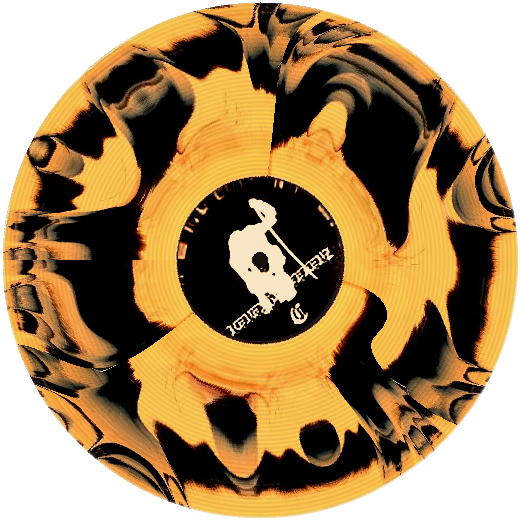
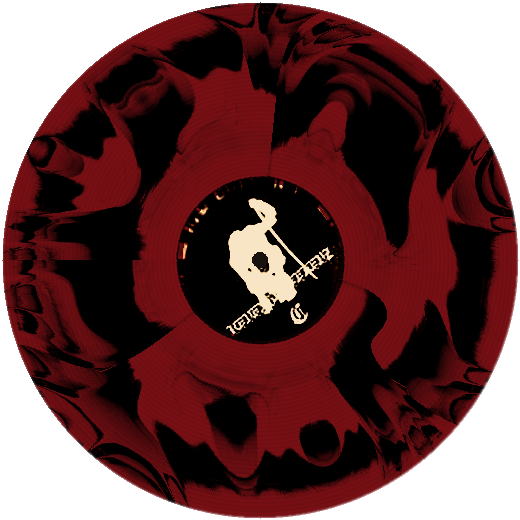
Page rouge : le fond fourni, texte allume, platine plus sombre
- le collage dessine cede la place a l image fournie, telle quelle, a fond
  perdu et cadree au centre
- les paroles, les noms de pistes et la note s allument comme les fleurs du
  fond : halo blanc, halo rouge, ombre sombre dessous pour tenir partout
- le disque passe au rouge sombre, la platine s assombrit et perd ses rayures
  de metal brosse, qui faisaient un moire de traits verticaux sur le rouge
- les pastilles d album ont maintenant la meme largeur : sans cela le nom le
  plus long decalait les deux ronds d une poignee de pixels vers la gauche
- les couches de grain sont attenuees sur cet album, elles ternissaient l image

diff --git a/index.html b/index.html
@@ -23,146 +23,8 @@
   <span class="blob b3"></span>
   <span class="glow"></span>
   <!-- collage de la page rouge : cache sur les autres albums -->
-  <svg class="deco" viewBox="0 0 1440 900" preserveAspectRatio="xMidYMid slice" aria-hidden="true">
-  <defs>
-  <pattern id="dg" width="17" height="17" patternUnits="userSpaceOnUse"><circle cx="8.5" cy="8.5" r="4.1" fill="#fff"/></pattern>
-  <radialGradient id="df"><stop offset="46%" stop-color="#fff" stop-opacity="1"/><stop offset="100%" stop-color="#fff" stop-opacity="0"/></radialGradient>
-  <mask id="dm"><ellipse cx="1010" cy="400" rx="470" ry="360" fill="url(#df)"/><ellipse cx="250" cy="760" rx="300" ry="230" fill="url(#df)"/></mask>
-  <radialGradient id="gf"><stop offset="0%" stop-color="#fff" stop-opacity=".9"/><stop offset="100%" stop-color="#fff" stop-opacity="0"/></radialGradient>
-  </defs>
-  <g fill="#5c0009" opacity=".32">
-  <path d="M1573.4,120.0C1566.0,147.8 1429.2,134.1 1404.2,179.9C1379.2,225.8 1466.4,322.9 1448.2,349.2C1430.0,375.5 1356.8,326.0 1313.3,311.5C1269.7,297.0 1271.1,283.2 1230.6,276.7C1190.0,270.3 1149.4,297.9 1110.4,279.1C1071.3,260.3 1049.0,226.8 1035.4,182.8C1021.8,138.7 1032.4,107.8 1042.4,59.0C1052.4,10.2 1054.7,-23.8 1085.3,-61.3C1116.0,-98.9 1151.1,-135.1 1195.7,-128.7C1240.2,-122.3 1254.8,-29.1 1308.1,-29.3C1361.4,-29.4 1435.7,-143.5 1462.2,-129.5C1488.8,-115.5 1418.8,-9.2 1441.1,40.7C1463.3,90.6 1580.7,92.2 1573.4,120.0Z"/>
-  <path d="M1638.6,620.0C1657.6,666.1 1646.9,708.4 1626.9,760.1C1606.9,811.8 1588.3,878.0 1538.4,878.5C1488.5,878.9 1434.6,756.8 1377.3,762.2C1319.9,767.7 1296.8,897.2 1251.7,905.7C1206.5,914.2 1173.7,851.1 1151.4,804.8C1129.1,758.5 1131.2,719.3 1139.9,674.2C1148.7,629.2 1201.8,635.1 1195.1,579.3C1188.3,523.6 1085.3,418.7 1106.3,395.3C1127.3,371.8 1244.5,457.5 1300.1,462.2C1355.8,466.9 1340.7,433.2 1384.4,418.7C1428.2,404.2 1489.5,367.4 1519.0,389.6C1548.5,411.8 1508.1,483.6 1532.1,529.7C1556.0,575.8 1619.6,573.9 1638.6,620.0Z"/>
-  <path d="M272.6,90.0C272.9,109.7 233.0,122.3 214.4,139.6C195.8,156.8 192.6,137.6 179.6,176.3C166.6,215.0 172.3,321.8 149.5,333.2C126.7,344.6 111.9,246.2 65.6,233.3C19.4,220.5 -39.5,284.4 -81.9,268.9C-124.3,253.3 -152.7,199.8 -146.4,155.7C-140.1,111.5 -82.3,80.1 -50.4,48.0C-18.5,15.9 -9.6,17.2 13.0,-4.8C35.5,-26.9 34.7,-30.9 62.2,-62.3C89.8,-93.8 119.6,-164.3 150.6,-162.0C181.6,-159.7 204.7,-91.4 217.2,-50.8C229.7,-10.2 202.1,13.0 213.2,41.1C224.2,69.3 272.3,70.3 272.6,90.0Z"/>
-  <path d="M990.4,880.0C995.7,916.9 970.2,943.0 949.1,979.2C928.0,1015.4 916.9,1032.3 885.0,1061.0C853.0,1089.8 826.3,1127.9 789.5,1123.0C752.7,1118.0 742.3,1053.1 700.8,1036.0C659.4,1018.9 621.4,1056.1 582.2,1037.5C543.0,1018.9 516.4,986.0 504.9,942.9C493.4,899.8 500.4,858.4 524.5,822.0C548.6,785.5 591.2,783.3 625.3,760.7C659.5,738.1 661.2,742.9 695.1,709.0C729.1,675.1 764.6,582.3 795.1,591.3C825.5,600.2 821.8,712.9 847.3,753.6C872.8,794.3 893.9,769.4 922.5,794.7C951.2,820.0 985.1,843.1 990.4,880.0Z"/>
-  </g>
-  <g fill="#7d0512" opacity=".3">
-  <path d="M1341.1,780.0C1328.8,816.9 1289.6,827.5 1262.8,852.5C1236.0,877.5 1233.2,894.0 1207.0,904.9C1180.8,915.8 1155.8,917.4 1131.7,907.0C1107.7,896.7 1128.8,865.1 1086.7,853.1C1044.6,841.1 952.6,874.7 921.2,847.2C889.9,819.6 905.2,753.2 929.8,715.3C954.4,677.5 1006.7,691.6 1044.0,657.7C1081.3,623.8 1074.0,567.5 1116.3,545.7C1158.6,524.0 1214.0,524.4 1255.6,548.8C1297.2,573.3 1307.2,621.7 1324.3,668.0C1341.4,714.2 1353.4,743.1 1341.1,780.0Z"/>
-  <path d="M156.7,470.0C173.4,499.6 228.7,554.3 216.8,570.8C205.0,587.2 133.5,540.8 97.6,552.3C61.6,563.7 58.8,628.5 37.2,628.2C15.7,627.9 8.6,575.6 -10.0,550.8C-28.7,526.0 -41.7,528.6 -56.1,504.1C-70.6,479.6 -89.7,453.2 -82.2,428.3C-74.6,403.3 -42.2,403.8 -18.5,379.4C5.2,355.0 14.0,303.0 36.5,306.3C58.9,309.5 74.5,372.4 93.9,395.7C113.3,419.0 120.8,408.0 133.4,422.8C145.9,437.7 140.0,440.4 156.7,470.0Z"/>
-  </g>
-  <rect x="0" y="0" width="1440" height="900" fill="url(#dg)" opacity=".2" mask="url(#dm)"/>
-  <g fill="#0b0507">
-  <path d="M1577.1,60.0C1598.5,86.0 1603.8,113.0 1598.6,148.3C1593.4,183.5 1586.2,231.8 1551.1,236.1C1515.9,240.5 1465.9,158.8 1422.9,170.1C1379.9,181.4 1374.6,277.5 1336.0,292.8C1297.4,308.0 1234.3,285.8 1230.0,246.2C1225.8,206.6 1332.5,132.0 1314.8,94.8C1297.1,57.5 1155.0,79.8 1141.5,60.0C1127.9,40.2 1210.5,11.7 1247.2,-4.1C1283.9,-19.9 1304.5,4.0 1325.0,-19.0C1345.5,-41.9 1332.0,-120.4 1349.6,-118.8C1367.3,-117.3 1370.2,-8.8 1413.0,-11.2C1455.9,-13.5 1548.1,-136.4 1563.8,-130.5C1579.5,-124.6 1488.8,-19.9 1491.4,18.2C1494.1,56.3 1555.6,34.0 1577.1,60.0Z" opacity=".95"/>
-  <path d="M1605.8,430.0C1599.7,479.1 1660.7,513.8 1647.2,544.9C1633.6,576.0 1571.6,553.6 1538.2,585.6C1504.7,617.6 1513.1,691.1 1479.7,704.8C1446.4,718.6 1418.8,662.3 1371.3,654.1C1323.8,645.9 1265.1,692.3 1242.4,663.9C1219.7,635.5 1275.1,558.8 1257.7,512.1C1240.3,465.3 1162.3,466.4 1155.2,430.0C1148.0,393.6 1189.8,357.3 1221.9,329.9C1254.1,302.4 1289.4,333.4 1315.9,292.9C1342.3,252.5 1327.5,127.4 1354.3,127.5C1381.0,127.7 1420.6,254.1 1449.6,293.8C1478.6,333.4 1453.5,324.6 1499.2,325.7C1544.8,326.9 1656.6,278.7 1677.9,299.6C1699.2,320.5 1612.0,380.9 1605.8,430.0Z" opacity=".95"/>
-  <path d="M1468.1,880.0C1477.2,914.3 1551.0,956.2 1540.2,976.2C1529.3,996.1 1448.2,967.0 1413.8,979.8C1379.5,992.7 1389.8,1041.3 1368.5,1040.2C1347.2,1039.1 1349.3,965.5 1307.4,974.1C1265.5,982.8 1199.4,1081.9 1159.1,1083.5C1118.8,1085.2 1089.5,1023.2 1105.9,982.5C1122.4,941.8 1218.6,910.6 1241.3,880.0C1264.0,849.4 1230.6,863.8 1219.4,829.4C1208.2,794.9 1172.8,737.3 1185.4,707.8C1198.0,678.2 1245.9,678.3 1282.3,681.5C1318.7,684.7 1326.4,721.8 1367.5,723.8C1408.7,725.8 1462.7,675.4 1488.2,691.6C1513.6,707.8 1498.7,767.0 1494.7,804.7C1490.7,842.3 1459.0,845.7 1468.1,880.0Z" opacity=".95"/>
-  <path d="M53.7,250.0C53.5,289.4 157.6,327.8 155.8,348.4C153.9,369.0 77.4,351.8 44.6,352.9C11.7,353.9 14.8,334.1 -8.5,353.8C-31.7,373.6 -52.6,451.8 -71.8,451.6C-91.1,451.5 -85.1,378.5 -104.6,352.9C-124.1,327.4 -146.3,344.4 -169.4,323.8C-192.5,303.2 -213.7,282.9 -220.1,250.0C-226.4,217.1 -222.6,182.1 -201.0,159.4C-179.5,136.7 -142.2,138.9 -112.2,136.6C-82.3,134.3 -76.1,166.0 -51.2,147.8C-26.3,129.5 -9.5,49.4 12.5,45.4C34.5,41.3 30.0,106.3 58.8,127.5C87.6,148.7 157.5,126.7 156.4,151.2C155.4,175.8 53.8,210.6 53.7,250.0Z" opacity=".95"/>
-  <path d="M213.1,880.0C192.6,907.6 149.0,898.0 137.9,926.8C126.7,955.5 170.6,1000.2 157.3,1023.7C144.1,1047.1 101.4,1055.6 71.6,1043.9C41.8,1032.3 32.7,980.0 8.4,965.3C-16.0,950.6 -34.1,978.8 -50.3,970.6C-66.4,962.4 -68.0,942.5 -72.5,924.4C-77.0,906.3 -54.5,905.7 -72.8,880.0C-91.1,854.3 -159.8,823.8 -164.0,795.9C-168.2,768.0 -125.2,752.1 -93.7,740.4C-62.1,728.7 -35.7,728.1 -6.2,737.3C23.3,746.6 25.5,781.8 53.7,786.6C81.9,791.5 97.6,761.2 134.9,761.6C172.2,762.1 224.5,765.2 240.2,788.9C255.8,812.6 233.6,852.4 213.1,880.0Z" opacity=".95"/>
-  <path d="M700.7,-60.0C717.3,-39.1 785.8,-11.5 789.0,9.2C792.2,29.8 741.3,22.5 716.8,43.2C692.2,63.8 691.3,111.9 666.3,112.3C641.2,112.7 612.3,67.6 591.7,45.2C571.2,22.9 583.3,10.9 563.4,0.4C543.4,-10.2 521.2,4.5 492.0,-7.6C462.8,-19.7 405.0,-44.2 417.5,-60.0C430.0,-75.8 524.8,-75.3 554.5,-86.8C584.2,-98.4 558.1,-103.2 565.8,-117.8C573.6,-132.4 574.6,-142.4 593.2,-159.8C611.8,-177.2 629.4,-199.0 658.9,-204.8C688.4,-210.6 731.3,-210.7 740.8,-188.8C750.3,-166.9 714.3,-121.1 706.3,-95.3C698.3,-69.6 684.2,-80.9 700.7,-60.0Z" opacity=".95"/>
-  </g>
-  <g fill="#0b0507" opacity=".7">
-  <path d="M96.4,838.0C96.8,843.1 96.7,848.0 93.3,851.7C90.0,855.4 84.0,857.6 79.6,856.4C75.3,855.3 73.5,849.7 71.6,846.0C69.8,842.3 69.6,840.5 70.3,838.0C71.0,835.5 73.2,836.0 75.0,833.4C76.9,830.8 76.4,826.4 79.6,825.0C82.9,823.6 88.0,823.7 91.3,826.3C94.7,828.9 96.0,832.9 96.4,838.0Z"/>
-  <path d="M1366.8,442.0C1368.6,448.9 1379.0,460.8 1376.6,463.9C1374.2,467.0 1364.4,456.5 1354.7,457.4C1345.1,458.3 1335.9,471.6 1328.3,468.5C1320.7,465.4 1316.3,452.2 1316.7,442.0C1317.1,431.8 1322.6,421.5 1330.2,417.5C1337.8,413.4 1347.3,419.3 1354.7,421.7C1362.2,424.0 1365.0,425.3 1367.4,429.4C1369.8,433.4 1365.0,435.1 1366.8,442.0Z"/>
-  <path d="M1170.4,72.7C1170.0,75.1 1168.2,75.8 1166.4,77.7C1164.6,79.6 1163.4,82.2 1161.3,82.2C1159.3,82.2 1158.1,79.6 1156.3,77.7C1154.5,75.8 1152.5,75.0 1152.2,72.7C1151.9,70.3 1153.0,67.0 1154.8,66.2C1156.7,65.3 1158.6,68.7 1161.3,68.6C1164.1,68.5 1166.6,64.7 1168.5,65.6C1170.3,66.4 1170.8,70.2 1170.4,72.7Z"/>
-  <path d="M200.0,826.2C203.6,832.8 216.3,847.2 214.0,851.5C211.7,855.8 196.7,849.8 188.7,847.7C180.7,845.6 177.4,845.3 173.9,841.0C170.4,836.7 173.4,834.3 171.3,826.2C169.1,818.2 159.9,808.2 163.4,800.9C166.9,793.6 182.2,786.1 188.7,789.7C195.3,793.3 193.8,811.6 196.0,818.9C198.3,826.3 196.5,819.7 200.0,826.2Z"/>
-  <path d="M25.5,396.5C28.7,402.3 38.7,412.3 36.4,419.0C34.1,425.6 22.8,429.8 13.9,429.7C5.0,429.5 -4.9,425.1 -8.0,418.4C-11.2,411.8 -1.9,405.4 -2.0,396.5C-2.2,387.6 -12.1,380.3 -8.9,373.7C-5.7,367.2 8.0,360.6 13.9,363.8C19.8,367.0 18.2,383.3 20.5,389.9C22.8,396.4 22.3,390.7 25.5,396.5Z"/>
-  <path d="M176.4,546.7C176.9,548.4 172.1,551.2 169.8,552.0C167.4,552.7 166.2,550.9 164.5,550.5C162.8,550.1 162.1,550.9 161.1,550.1C160.1,549.4 159.4,548.0 159.5,546.7C159.7,545.5 160.8,545.8 161.8,544.1C162.8,542.4 163.4,538.3 164.5,538.3C165.6,538.2 165.0,542.1 167.4,543.8C169.8,545.5 176.0,545.1 176.4,546.7Z"/>
-  <path d="M28.7,489.7C31.5,496.5 35.5,507.7 31.3,513.6C27.0,519.4 16.2,519.7 7.4,518.9C-1.3,518.1 -5.3,515.3 -12.3,509.5C-19.4,503.7 -29.7,495.7 -27.7,489.7C-25.7,483.8 -9.5,486.4 -2.4,479.8C4.6,473.3 3.5,456.9 7.4,456.9C11.4,456.8 13.2,473.2 17.4,479.7C21.7,486.3 25.9,483.0 28.7,489.7Z"/>
-  <path d="M1241.3,586.6C1239.8,595.1 1233.5,599.2 1227.2,604.1C1220.9,609.0 1215.3,612.4 1209.7,611.0C1204.1,609.6 1202.8,602.0 1199.2,597.1C1195.5,592.2 1192.4,591.8 1191.5,586.6C1190.5,581.4 1190.6,575.3 1194.3,571.2C1197.9,567.2 1201.6,568.3 1209.7,566.4C1217.8,564.4 1228.5,557.4 1234.8,561.5C1241.1,565.5 1242.8,578.1 1241.3,586.6Z"/>
-  <path d="M308.8,419.4C306.4,425.5 306.2,426.6 303.3,428.5C300.4,430.4 298.1,428.5 294.2,428.7C290.3,429.0 285.6,431.6 283.9,429.8C282.1,427.9 286.9,424.9 285.6,419.4C284.2,413.9 275.3,405.6 277.1,402.3C278.8,398.9 286.5,403.4 294.2,402.6C301.9,401.7 312.6,394.8 315.5,398.2C318.4,401.6 311.3,413.4 308.8,419.4Z"/>
-  <path d="M1338.6,195.0C1340.3,203.5 1354.4,213.4 1352.1,220.1C1349.8,226.9 1334.3,231.6 1327.0,228.8C1319.8,226.0 1319.8,212.9 1316.0,206.1C1312.1,199.4 1309.8,201.3 1307.9,195.0C1306.1,188.8 1302.9,178.6 1306.7,174.7C1310.5,170.9 1319.6,175.1 1327.0,175.8C1334.5,176.5 1341.7,174.2 1344.0,178.1C1346.3,181.9 1337.0,186.6 1338.6,195.0Z"/>
-  <path d="M258.0,495.5C257.8,501.7 266.7,508.5 265.1,510.5C263.5,512.4 255.2,506.2 250.1,505.2C245.1,504.3 243.0,507.6 239.9,505.7C236.9,503.8 234.3,499.2 234.7,495.5C235.1,491.8 238.8,489.8 241.9,487.3C245.0,484.8 245.3,484.4 250.1,482.9C254.9,481.4 264.3,477.3 265.8,479.8C267.4,482.3 258.1,489.4 258.0,495.5Z"/>
-  <path d="M288.3,875.5C288.9,881.8 288.9,888.1 284.7,892.7C280.6,897.3 273.8,899.1 267.5,898.4C261.3,897.8 258.5,894.1 253.5,889.5C248.6,884.9 241.9,880.4 242.6,875.5C243.3,870.6 252.1,869.4 257.1,865.0C262.1,860.6 262.6,854.1 267.5,853.3C272.5,852.5 277.7,856.8 281.8,861.2C286.0,865.6 287.8,869.2 288.3,875.5Z"/>
-  <path d="M255.8,670.2C254.0,674.3 253.5,673.6 251.4,676.1C249.4,678.7 250.2,680.5 245.5,682.9C240.7,685.2 229.5,690.5 227.7,688.0C225.9,685.4 236.9,677.7 236.4,670.2C236.0,662.6 223.5,655.3 225.3,650.0C227.2,644.7 238.5,642.5 245.5,643.6C252.5,644.7 258.2,650.0 260.3,655.3C262.3,660.7 257.5,666.0 255.8,670.2Z"/>
-  <path d="M1369.0,300.1C1369.2,307.0 1366.1,312.0 1360.9,317.7C1355.7,323.4 1348.3,330.6 1343.3,328.6C1338.2,326.6 1339.0,313.3 1335.7,307.6C1332.4,301.9 1329.1,305.3 1326.9,300.1C1324.7,294.8 1321.4,286.9 1324.6,281.4C1327.9,276.0 1336.2,272.7 1343.3,273.0C1350.4,273.3 1355.1,277.7 1360.3,283.1C1365.4,288.5 1368.9,293.2 1369.0,300.1Z"/>
-  <path d="M186.1,378.1C187.4,382.0 191.5,388.9 189.6,391.1C187.7,393.3 181.2,389.8 176.6,389.3C171.9,388.7 167.1,390.8 166.2,388.5C165.2,386.3 172.1,382.6 171.8,378.1C171.5,373.6 163.6,368.2 164.6,366.2C165.6,364.1 172.9,366.6 176.6,367.8C180.2,368.9 181.0,369.7 182.9,371.8C184.8,373.9 184.8,374.3 186.1,378.1Z"/>
-  <path d="M77.9,36.2C79.1,38.6 84.2,44.4 83.5,45.3C82.7,46.2 77.8,40.8 74.4,40.6C70.9,40.5 68.4,45.4 66.1,44.5C63.8,43.6 62.4,39.2 62.8,36.2C63.1,33.2 65.5,31.3 67.9,29.7C70.2,28.1 72.5,27.5 74.4,28.3C76.3,29.0 76.6,31.7 77.3,33.3C78.0,34.8 76.7,33.8 77.9,36.2Z"/>
-  <path d="M1451.1,87.0C1449.4,91.4 1436.0,90.8 1430.6,93.7C1425.1,96.6 1428.5,99.7 1423.9,101.7C1419.3,103.7 1409.9,106.4 1407.5,103.5C1405.0,100.5 1412.4,94.3 1411.7,87.0C1411.0,79.7 1401.5,72.5 1403.9,67.1C1406.4,61.6 1416.8,58.9 1423.9,59.8C1431.0,60.7 1433.8,66.2 1439.3,71.6C1444.7,77.1 1452.8,82.6 1451.1,87.0Z"/>
-  <path d="M1188.0,673.7C1190.0,680.0 1188.0,688.1 1182.8,694.3C1177.6,700.5 1169.9,705.1 1162.1,704.6C1154.4,704.1 1146.7,698.0 1144.0,691.8C1141.2,685.6 1147.8,680.3 1148.4,673.7C1149.1,667.1 1144.5,665.8 1147.3,658.8C1150.0,651.8 1156.9,638.0 1162.1,638.8C1167.3,639.5 1168.1,655.6 1173.3,662.5C1178.5,669.5 1186.1,667.3 1188.0,673.7Z"/>
-  <path d="M66.6,381.4C67.4,387.5 76.0,396.9 74.0,398.7C72.0,400.6 63.7,390.8 56.7,390.8C49.7,390.9 41.5,400.9 39.1,399.0C36.7,397.2 42.9,386.8 44.7,381.4C46.4,376.1 45.3,374.5 47.7,372.4C50.1,370.3 52.3,371.7 56.7,370.9C61.1,370.1 67.8,366.3 69.8,368.4C71.7,370.5 65.7,375.4 66.6,381.4Z"/>
-  <path d="M1167.9,208.3C1167.2,210.8 1163.6,211.3 1161.5,212.7C1159.3,214.0 1159.5,214.3 1157.1,214.9C1154.8,215.5 1152.0,216.9 1149.8,215.6C1147.6,214.3 1147.0,211.9 1146.3,208.3C1145.6,204.7 1144.2,201.2 1146.3,197.5C1148.5,193.9 1153.4,189.5 1157.1,190.0C1160.9,190.6 1162.9,196.7 1165.1,200.4C1167.2,204.0 1168.6,205.8 1167.9,208.3Z"/>
-  <path d="M1238.5,664.1C1238.5,665.2 1234.8,666.1 1233.2,666.9C1231.6,667.7 1232.6,667.1 1230.3,668.3C1228.1,669.4 1224.1,673.3 1221.9,672.5C1219.7,671.7 1218.4,666.5 1219.4,664.1C1220.4,661.7 1224.7,662.0 1226.9,660.6C1229.1,659.2 1229.1,657.0 1230.3,657.2C1231.6,657.3 1231.5,659.9 1233.1,661.3C1234.7,662.7 1238.4,663.0 1238.5,664.1Z"/>
-  <path d="M280.3,670.3C281.1,675.1 273.1,682.4 267.8,684.3C262.5,686.2 260.1,679.0 253.8,679.8C247.5,680.5 240.9,689.8 236.1,687.9C231.3,686.0 229.8,677.4 229.8,670.3C229.7,663.1 231.0,656.6 235.8,652.2C240.6,647.8 248.2,646.6 253.8,648.2C259.4,649.8 258.6,655.8 263.9,660.2C269.2,664.6 279.5,665.4 280.3,670.3Z"/>
-  <path d="M300.1,802.0C299.1,807.5 280.4,810.8 272.8,813.0C265.1,815.3 265.6,814.0 261.7,813.4C257.9,812.9 260.2,812.6 253.4,810.3C246.7,808.0 230.8,808.1 228.0,802.0C225.2,795.9 232.8,787.5 239.5,779.8C246.2,772.0 254.0,762.2 261.7,763.4C269.4,764.6 270.3,778.0 278.0,785.7C285.7,793.5 301.1,796.5 300.1,802.0Z"/>
-  <path d="M1193.7,390.0C1192.5,397.0 1200.8,400.2 1199.0,404.4C1197.2,408.5 1190.5,410.7 1184.7,410.8C1178.9,410.9 1175.7,408.9 1170.0,404.7C1164.2,400.6 1154.4,394.2 1156.1,390.0C1157.8,385.9 1173.0,388.1 1178.7,384.1C1184.4,380.0 1179.4,372.9 1184.7,370.0C1189.9,367.1 1203.3,365.6 1205.1,369.6C1206.9,373.6 1194.9,383.1 1193.7,390.0Z"/>
-  <path d="M74.3,548.4C77.1,554.0 79.1,567.0 75.1,569.4C71.0,571.8 61.2,561.8 54.1,560.5C46.9,559.3 43.2,565.5 39.4,563.1C35.6,560.6 36.6,555.8 35.1,548.4C33.6,541.1 28.1,531.9 31.9,526.2C35.7,520.6 48.2,517.3 54.1,520.3C59.9,523.3 57.0,535.8 61.1,541.4C65.1,547.0 71.5,542.8 74.3,548.4Z"/>
-  <path d="M1164.2,248.2C1165.4,250.6 1164.2,254.9 1162.0,257.1C1159.8,259.3 1156.7,258.9 1153.1,259.0C1149.4,259.1 1146.6,259.8 1143.6,257.6C1140.7,255.5 1138.5,252.3 1138.2,248.2C1137.9,244.1 1139.1,238.9 1142.1,237.2C1145.1,235.5 1150.3,238.1 1153.1,239.7C1155.9,241.3 1153.9,243.4 1156.2,245.1C1158.4,246.8 1163.1,245.8 1164.2,248.2Z"/>
-  </g>
-  <polygon points="1008.4,133.6 1034.0,249.2 1150.4,270.8 1048.4,330.9 1063.9,448.3 975.2,369.9 868.3,420.8 915.5,312.3 834.0,226.4 951.9,237.7" fill="#0b0507"/>
-  <polygon points="1248.2,16.4 1280.9,64.1 1337.5,52.5 1302.4,98.4 1330.8,148.7 1276.3,129.4 1237.3,172.0 1238.8,114.3 1186.2,90.3 1241.6,73.9" fill="#0b0507" opacity=".5"/>
-  <polygon points="268.4,728.5 272.9,801.7 342.0,826.2 273.8,853.1 271.9,926.3 225.2,869.8 154.9,890.6 194.3,828.8 152.8,768.3 223.8,786.7" fill="#0b0507" opacity=".34"/>
-  <g fill="none" stroke="#0b0507" stroke-linecap="round">
-  <path d="M-60,470 C260,392 640,506 900,452 C1120,406 1300,470 1500,430" stroke-width="5.5" opacity="0.95"/>
-  <path d="M-60,560 C240,494 620,596 890,544 C1120,500 1310,556 1500,520" stroke-width="4.2" opacity="0.80"/>
-  <path d="M-60,650 C250,596 630,682 900,636 C1130,596 1320,644 1500,614" stroke-width="3.2" opacity="0.62"/>
-  <path d="M-60,382 C280,300 660,414 930,362 C1150,320 1320,382 1500,346" stroke-width="2.4" opacity="0.50"/>
-  </g>
-  <g fill="#0b0507">
-  <g transform="translate(560.0,470.0) rotate(-6.0) scale(1.15,1.15)"><ellipse cx="0" cy="0" rx="17" ry="12.5" transform="rotate(-22)"/><path d="M15,-4 L15,-78 L21,-78 L21,-4 Z"/><path d="M21,-78 C46,-66 52,-48 42,-28 C48,-50 40,-60 21,-66 Z"/></g>
-  <g transform="translate(752.0,452.0) rotate(-3.0) scale(0.95,0.95)"><ellipse cx="0" cy="0" rx="17" ry="12.5" transform="rotate(-22)"/><path d="M15,-4 L15,-78 L21,-78 L21,-4 Z"/><path d="M21,-78 C46,-66 52,-48 42,-28 C48,-50 40,-60 21,-66 Z"/></g>
-  <g transform="translate(1112.0,470.0) rotate(5.0) scale(1.05,1.05)"><ellipse cx="0" cy="0" rx="17" ry="12.5" transform="rotate(-22)"/><path d="M15,-4 L15,-78 L21,-78 L21,-4 Z"/><path d="M21,-78 C46,-66 52,-48 42,-28 C48,-50 40,-60 21,-66 Z"/></g>
-  <g transform="translate(300.0,512.0) rotate(-8.0) scale(0.80,0.80)"><ellipse cx="0" cy="0" rx="17" ry="12.5" transform="rotate(-22)"/><path d="M15,-4 L15,-78 L21,-78 L21,-4 Z"/><path d="M21,-78 C46,-66 52,-48 42,-28 C48,-50 40,-60 21,-66 Z"/></g>
-  </g>
-  <g fill="none" stroke="#0b0507" stroke-linecap="round">
-  <path d="M288.7,801.9 L288.2,799.7 L288.1,797.2 L288.5,794.6 L289.4,792.0 L290.8,789.4 L292.8,786.9 L295.2,784.7 L298.2,782.9 L301.6,781.5 L305.4,780.6 L309.5,780.3 L313.7,780.7 L318.0,781.8 L322.3,783.6 L326.4,786.1 L330.1,789.4 L333.5,793.4 L336.3,798.0 L338.5,803.2 L339.9,808.8 L340.5,814.7 L340.1,820.9 L338.8,827.2 L336.5,833.3 L333.2,839.2 L329.0,844.8 L323.8,849.7 L317.8,854.0 L311.1,857.4 L303.8,859.9 L295.9,861.3 L287.8,861.5 L279.5,860.5 L271.3,858.2 L263.3,854.7 L255.7,850.0 L248.8,844.0 L242.6,837.0 L237.5,829.0 L233.5,820.1 L230.8,810.6 L229.4,800.6 L229.5,790.3 L231.2,779.9 L234.4,769.6 L239.1,759.8 L245.4,750.6 L253.0,742.3 L261.9,735.0 L272.0,728.9 L282.9,724.4 L294.7,721.4 L306.9,720.1 L319.4,720.6 L331.9,722.9 L344.1,727.1 L355.8,733.1 L366.6,740.8 L376.3,750.1 L384.8,760.9 L391.6,773.0 L396.8,786.1 L400.0,800.1 L401.2,814.5 L400.4,829.2 L397.3,843.8 L392.2,857.9 L384.9,871.4 L375.7,883.9 L364.7,895.0 L352.0,904.5 L337.8,912.3 L322.6,917.9 L306.5,921.4 L289.8,922.6 L273.0,921.3 L256.3,917.5 L240.1,911.4 L224.9,902.9 L210.8,892.1 L198.3,879.4 L187.6,864.7 L179.1,848.6 L172.9,831.2 L169.2,812.9 L168.1,794.0 L169.8,775.0 L174.3,756.2 L181.5,738.1 L191.3,721.0" stroke-width="7" opacity=".9"/>
-  <path d="M304.6,809.9 L304.7,811.2 L304.6,812.6 L304.1,814.0 L303.4,815.4 L302.3,816.8 L300.9,818.0 L299.3,819.0 L297.4,819.8 L295.3,820.2 L293.0,820.4 L290.6,820.2 L288.1,819.5 L285.7,818.5 L283.3,817.1 L281.1,815.2 L279.1,812.9 L277.4,810.3 L276.0,807.3 L275.1,804.1 L274.6,800.6 L274.6,796.9 L275.1,793.2 L276.2,789.4 L277.8,785.8 L280.1,782.3 L282.9,779.0 L286.2,776.0 L289.9,773.5 L294.2,771.5 L298.7,770.0 L303.6,769.2 L308.7,769.0 L313.8,769.5 L319.0,770.8 L324.1,772.8 L329.0,775.6 L333.5,779.1 L337.6,783.2 L341.2,788.0 L344.2,793.3 L346.5,799.1 L348.0,805.3 L348.7,811.8 L348.4,818.4 L347.3,825.1 L345.2,831.7 L342.2,838.0 L338.3,844.1 L333.6,849.6 L328.0,854.5 L321.7,858.7 L314.8,862.1 L307.4,864.5 L299.6,866.0 L291.5,866.4 L283.3,865.7 L275.2,863.9 L267.2,861.0 L259.6,856.9 L252.5,851.8 L246.1,845.8 L240.4,838.8 L235.7,831.0 L232.0,822.5 L229.4,813.4 L228.0,804.0 L227.9,794.3 L229.2,784.6 L231.7,775.0 L235.5,765.7 L240.7,756.9 L247.0,748.8 L254.5,741.4 L262.9,735.1 L272.3,729.9 L282.4,725.9 L293.1,723.3 L304.1,722.1 L315.3,722.4 L326.6,724.2 L337.6,727.5 L348.2,732.4 L358.2,738.6 L367.3,746.2 L375.4,755.1 L382.4,765.1 L388.0,776.0 L392.2,787.7 L394.8,800.0 L395.8,812.7" stroke-width="4.5" opacity=".6"/>
-  <path d="M1186.7,209.0 L1188.1,209.7 L1189.4,210.6 L1190.7,211.9 L1191.8,213.3 L1192.7,215.0 L1193.5,216.9 L1193.9,219.0 L1194.1,221.3 L1193.9,223.6 L1193.4,226.0 L1192.6,228.5 L1191.3,230.8 L1189.7,233.1 L1187.8,235.2 L1185.5,237.1 L1182.9,238.8 L1180.0,240.2 L1176.9,241.2 L1173.5,241.8 L1170.0,242.0 L1166.3,241.7 L1162.7,241.0 L1159.0,239.7 L1155.5,238.0 L1152.0,235.8 L1148.8,233.1 L1145.9,229.9 L1143.4,226.3 L1141.2,222.4 L1139.5,218.0 L1138.4,213.4 L1137.8,208.6 L1137.8,203.7 L1138.4,198.6 L1139.6,193.6 L1141.5,188.7 L1144.1,183.9 L1147.3,179.4 L1151.0,175.2 L1155.4,171.4 L1160.2,168.2 L1165.5,165.4 L1171.2,163.4 L1177.3,162.0 L1183.5,161.3 L1190.0,161.4 L1196.4,162.3 L1202.8,164.0 L1209.1,166.5 L1215.1,169.7 L1220.8,173.8 L1226.0,178.6 L1230.7,184.0 L1234.8,190.1 L1238.1,196.8 L1240.7,203.8 L1242.4,211.3 L1243.2,219.0 L1243.1,226.9 L1242.0,234.8 L1240.0,242.6 L1237.0,250.3 L1233.0,257.6 L1228.1,264.5 L1222.4,270.8 L1215.9,276.5 L1208.6,281.4 L1200.7,285.5 L1192.2,288.6 L1183.4,290.7 L1174.2,291.8 L1164.9,291.7 L1155.5,290.5 L1146.2,288.2 L1137.2,284.7 L1128.5,280.2 L1120.4,274.5 L1112.9,267.9 L1106.1,260.3 L1100.3,251.9 L1095.5,242.7 L1091.7,233.0 L1089.1,222.7 L1087.8,212.1 L1087.7,201.3 L1088.9,190.5 L1091.4,179.7 L1095.2,169.2 L1100.3,159.2 L1106.7,149.8" stroke-width="6" opacity=".85"/>
-  <path d="M1210,470 C1300,420 1290,320 1200,300 C1120,282 1092,360 1140,392" stroke-width="6" opacity=".8"/>
-  <path d="M470,120 C560,58 690,86 700,166 C708,224 640,242 616,196" stroke-width="6.5" opacity=".85"/>
-  </g>
-  <g fill="none" stroke="#0b0507" opacity=".8">
-  <ellipse cx="272" cy="856" rx="34" ry="29" stroke-width="7.5"/>
-  <ellipse cx="272" cy="856" rx="58" ry="49" stroke-width="6.4"/>
-  <ellipse cx="272" cy="856" rx="84" ry="72" stroke-width="5.3"/>
-  <ellipse cx="272" cy="856" rx="112" ry="96" stroke-width="4.2"/>
-  <ellipse cx="272" cy="856" rx="142" ry="122" stroke-width="3.1"/>
-  </g>
-  <g fill="none" stroke="#0b0507" opacity=".45">
-  <circle cx="1196" cy="238" r="26" stroke-width="5.5"/>
-  <circle cx="1196" cy="238" r="46" stroke-width="4.4"/>
-  <circle cx="1196" cy="238" r="70" stroke-width="3.3"/>
-  </g>
-  <g fill="#0b0507" opacity=".62">
-  <rect x="470.0" y="854.0" width="44.0" height="34.0" transform="skewX(-14)" rx="2"/>
-  <rect x="568.0" y="854.0" width="44.0" height="34.0" transform="skewX(-14)" rx="2"/>
-  <rect x="666.0" y="854.0" width="44.0" height="34.0" transform="skewX(-14)" rx="2"/>
-  <rect x="764.0" y="854.0" width="44.0" height="34.0" transform="skewX(-14)" rx="2"/>
-  <rect x="533.8" y="822.8" width="40.0" height="30.9" transform="skewX(-14)" rx="2"/>
-  <rect x="623.9" y="822.8" width="40.0" height="30.9" transform="skewX(-14)" rx="2"/>
-  <rect x="714.0" y="822.8" width="40.0" height="30.9" transform="skewX(-14)" rx="2"/>
-  <rect x="507.5" y="791.5" width="36.1" height="27.9" transform="skewX(-14)" rx="2"/>
-  <rect x="589.7" y="791.5" width="36.1" height="27.9" transform="skewX(-14)" rx="2"/>
-  <rect x="671.8" y="791.5" width="36.1" height="27.9" transform="skewX(-14)" rx="2"/>
-  <rect x="754.0" y="791.5" width="36.1" height="27.9" transform="skewX(-14)" rx="2"/>
-  <rect x="563.4" y="760.2" width="32.1" height="24.8" transform="skewX(-14)" rx="2"/>
-  <rect x="637.6" y="760.2" width="32.1" height="24.8" transform="skewX(-14)" rx="2"/>
-  <rect x="711.9" y="760.2" width="32.1" height="24.8" transform="skewX(-14)" rx="2"/>
-  <rect x="545.0" y="729.0" width="28.2" height="21.8" transform="skewX(-14)" rx="2"/>
-  <rect x="611.3" y="729.0" width="28.2" height="21.8" transform="skewX(-14)" rx="2"/>
-  <rect x="677.6" y="729.0" width="28.2" height="21.8" transform="skewX(-14)" rx="2"/>
-  <rect x="744.0" y="729.0" width="28.2" height="21.8" transform="skewX(-14)" rx="2"/>
-  <rect x="593.0" y="697.8" width="24.2" height="18.7" transform="skewX(-14)" rx="2"/>
-  <rect x="651.4" y="697.8" width="24.2" height="18.7" transform="skewX(-14)" rx="2"/>
-  <rect x="709.8" y="697.8" width="24.2" height="18.7" transform="skewX(-14)" rx="2"/>
-  <rect x="582.5" y="666.5" width="20.2" height="15.6" transform="skewX(-14)" rx="2"/>
-  <rect x="633.0" y="666.5" width="20.2" height="15.6" transform="skewX(-14)" rx="2"/>
-  <rect x="683.5" y="666.5" width="20.2" height="15.6" transform="skewX(-14)" rx="2"/>
-  <rect x="733.9" y="666.5" width="20.2" height="15.6" transform="skewX(-14)" rx="2"/>
-  <rect x="622.5" y="635.2" width="16.3" height="12.6" transform="skewX(-14)" rx="2"/>
-  <rect x="665.1" y="635.2" width="16.3" height="12.6" transform="skewX(-14)" rx="2"/>
-  <rect x="707.6" y="635.2" width="16.3" height="12.6" transform="skewX(-14)" rx="2"/>
-  <rect x="620.0" y="604.0" width="12.3" height="9.5" transform="skewX(-14)" rx="2"/>
-  <rect x="654.6" y="604.0" width="12.3" height="9.5" transform="skewX(-14)" rx="2"/>
-  <rect x="689.3" y="604.0" width="12.3" height="9.5" transform="skewX(-14)" rx="2"/>
-  <rect x="723.9" y="604.0" width="12.3" height="9.5" transform="skewX(-14)" rx="2"/>
-  </g>
-  <g fill="none" stroke="#fff" stroke-linecap="round">
-  <path d="M-40,392 C240,470 470,338 760,392" stroke-width="2.6" opacity=".8"/>
-  <path d="M-40,436 C220,510 500,386 800,438" stroke-width="1.3" opacity=".5"/>
-  <path d="M900,824 C1080,760 1230,800 1420,742" stroke-width="1.8" opacity=".45"/>
-  </g>
-  <circle cx="392" cy="356" r="66" fill="url(#gf)" opacity=".5"/>
-  <path d="M392.0,356.0 Q399.5,349.1 421.3,362.2 Q396.1,365.3 392.0,356.0 Z M392.0,356.0 Q400.9,361.0 395.1,385.8 Q384.4,362.8 392.0,356.0 Z M392.0,356.0 Q390.0,366.0 364.6,368.2 Q383.2,350.8 392.0,356.0 Z M392.0,356.0 Q381.9,357.1 371.9,333.7 Q394.2,346.0 392.0,356.0 Z M392.0,356.0 Q387.8,346.7 407.0,330.0 Q402.2,355.0 392.0,356.0 Z" fill="#fff" opacity=".95"/>
-  <circle cx="392" cy="356" r="5.1" fill="#fff"/>
-  <circle cx="656" cy="596" r="74" fill="url(#gf)" opacity=".5"/>
-  <path d="M656.0,596.0 Q659.1,584.9 687.9,584.4 Q665.5,602.5 656.0,596.0 Z M656.0,596.0 Q667.5,595.5 676.9,622.8 Q652.7,607.1 656.0,596.0 Z M656.0,596.0 Q660.0,606.8 637.0,624.2 Q644.4,596.3 656.0,596.0 Z M656.0,596.0 Q646.9,603.2 623.3,586.6 Q652.1,585.1 656.0,596.0 Z M656.0,596.0 Q646.4,589.6 654.8,562.0 Q665.2,589.0 656.0,596.0 Z" fill="#fff" opacity=".95"/>
-  <circle cx="656" cy="596" r="5.8" fill="#fff"/>
-  <circle cx="196" cy="592" r="48" fill="url(#gf)" opacity=".5"/>
-  <path d="M196.0,592.0 Q202.8,588.9 215.1,603.0 Q196.7,599.4 196.0,592.0 Z M196.0,592.0 Q201.0,597.5 191.4,613.5 Q189.1,595.0 196.0,592.0 Z M196.0,592.0 Q192.3,598.5 174.1,594.3 Q191.0,586.4 196.0,592.0 Z M196.0,592.0 Q188.7,590.5 187.1,571.9 Q199.8,585.6 196.0,592.0 Z M196.0,592.0 Q195.2,584.6 212.3,577.3 Q203.3,593.6 196.0,592.0 Z" fill="#fff" opacity=".95"/>
-  <circle cx="196" cy="592" r="3.7" fill="#fff"/>
-  <circle cx="1108" cy="690" r="57" fill="url(#gf)" opacity=".5"/>
-  <path d="M1108.0,690.0 Q1113.9,683.4 1133.9,692.7 Q1112.4,697.7 1108.0,690.0 Z M1108.0,690.0 Q1116.1,693.5 1113.4,715.4 Q1102.0,696.5 1108.0,690.0 Z M1108.0,690.0 Q1107.1,698.8 1085.5,703.0 Q1100.0,686.3 1108.0,690.0 Z M1108.0,690.0 Q1099.4,691.9 1088.7,672.6 Q1109.0,681.2 1108.0,690.0 Z M1108.0,690.0 Q1103.5,682.4 1118.6,666.2 Q1116.7,688.2 1108.0,690.0 Z" fill="#fff" opacity=".95"/>
-  <circle cx="1108" cy="690" r="4.4" fill="#fff"/>
-  </svg>
+  <!-- fond de l album -->
+  <div class="deco"></div>
 </div>
 
 <div class="veil"></div>

diff --git a/style.css b/style.css
@@ -241,6 +241,7 @@ body.is-stage .albums{opacity:1;transform:none}
 body.is-stage .alb{pointer-events:auto}
 
 .alb{
+  width:132px;                              /* meme place pour chacun : les ronds restent symetriques */
   display:flex;flex-direction:column;align-items:center;gap:10px;
   background:none;border:0;padding:0;cursor:pointer;
   transition:transform .42s cubic-bezier(.22,.72,.16,1);
@@ -257,7 +258,7 @@ body.is-stage .alb{pointer-events:auto}
   font-size:9px;letter-spacing:.16em;text-transform:uppercase;
   text-align:center;line-height:1.5;
   color:rgba(20,18,15,.55);
-  max-width:110px;
+  max-width:100%;
 }
 .alb.is-current .bub{
   box-shadow:
@@ -748,43 +749,21 @@ body.alb-red{
   color:#0b0507;
 }
 
-/* les taches pastel n ont plus lieu d etre : le fond est deja une couleur pleine */
-body.alb-red .blob{display:none}
-body.alb-red .glow{
-  background:radial-gradient(circle,
-              rgba(255,146,96,.42) 0%,
-              rgba(214,20,34,.26) 34%,
-              rgba(120,0,12,0) 68%);
-}
+/* l image porte deja sa lumiere et ses angles sombres : les taches pastel
+   et la lueur du fond clair ne feraient que s y poser par dessus */
+body.alb-red .blob,
+body.alb-red .glow{display:none}
 
-/* eclats noirs partant des coins : c est ce qui donne la nervosite du style */
-body.alb-red .bg::before,
-body.alb-red .bg::after{
-  content:"";position:absolute;inset:-25%;pointer-events:none;
-}
-body.alb-red .bg::before{
-  background:conic-gradient(from 196deg at 6% 2%,
-    #0b0507 0 5deg, transparent 5deg 11deg,
-    #0b0507 11deg 14deg, transparent 14deg 26deg,
-    #0b0507 26deg 29deg, transparent 29deg 360deg);
-  opacity:.92;
-}
-body.alb-red .bg::after{
-  background:conic-gradient(from 18deg at 98% 100%,
-    #0b0507 0 4deg, transparent 4deg 12deg,
-    #0b0507 12deg 16deg, transparent 16deg 24deg,
-    #0b0507 24deg 26deg, transparent 26deg 360deg);
-  opacity:.8;
-}
-
-/* Le collage : encre, etoiles, portees et fleurs. Il couvre toute la fenetre
-   et non la scene mise a l echelle, sinon il laisserait deux bandes rouges
-   nues sur les ecrans larges. Il reste sous tout le reste. */
+/* Le fond de l album : l image fournie, a fond perdu.
+   cover la recadre au lieu de l etirer : elle garde ses proportions et
+   remplit la fenetre quelle que soit sa forme. Le cadrage part toujours du
+   centre, donc c est le meme partout, du telephone au grand ecran ; c est
+   la largeur des bords perdus qui change, pas ce qu on garde. */
 .deco{display:none}
 body.alb-red .deco{
   display:block;
   position:absolute;inset:0;z-index:0;
-  width:100%;height:100%;
+  background:url("assets/bg2.jpg") center center / cover no-repeat;
   pointer-events:none;
   opacity:0;transition:opacity 1.4s ease .3s;
 }
@@ -795,10 +774,13 @@ body.alb-red.is-lighten .deco{opacity:1}
    Sur le rouge elle etouffait le collage, dont les points font deja partie du
    dessin, par plaques et non partout : on la retire ici. */
 body.alb-red .halftone{display:none}
-body.alb-red .scan{opacity:.05}
-body.alb-red .noise{opacity:.3}
+/* les couches de salete sont faites pour le papier clair : sur l image du fond
+   elles la ternissaient. On les laisse a peine, juste de quoi lier la scene
+   au fond, sans repeindre le dessin. */
+body.alb-red .scan{opacity:.04}
+body.alb-red .noise{opacity:.14}
 body.alb-red .vignette{
-  background:radial-gradient(ellipse at 50% 46%,rgba(11,5,7,0) 46%,rgba(11,5,7,.4) 100%);
+  background:radial-gradient(ellipse at 50% 46%,rgba(11,5,7,0) 52%,rgba(11,5,7,.3) 100%);
 }
 /* les courbes fines du fond clair jureraient sur le rouge */
 body.alb-red .swoosh{display:none}
@@ -828,7 +810,10 @@ body.alb-red .bub:hover{
     inset 0 -14px 26px rgba(0,0,0,.46),
     inset 0 2px 3px rgba(255,255,255,.3);
 }
-body.alb-red .bub-num{color:rgba(255,238,232,.6)}
+body.alb-red .bub-num{
+  color:rgba(255,255,255,.7);
+  text-shadow:0 0 8px rgba(255,255,255,.5);
+}
 /* la piste qui joue est cerclee de blanc : sur le noir c est le seul liseré qui se voit */
 body.alb-red .trk.is-current .bub,
 body.alb-red .alb.is-current .bub{
@@ -839,9 +824,18 @@ body.alb-red .alb.is-current .bub{
 }
 body.alb-red .trk-name,
 body.alb-red .alb-name{
-  color:#0b0507;font-weight:700;
+  color:rgba(255,255,255,.76);font-weight:700;
+  text-shadow:0 0 10px rgba(255,255,255,.42),
+              0 0 24px rgba(255,110,110,.34),
+              0 1px 2px rgba(11,5,7,.6);
 }
-body.alb-red .alb.is-current .alb-name{color:#fff}
+body.alb-red .trk.is-current .trk-name,
+body.alb-red .alb.is-current .alb-name{
+  color:#fff;
+  text-shadow:0 0 8px rgba(255,255,255,.95),
+              0 0 26px rgba(255,255,255,.7),
+              0 1px 2px rgba(11,5,7,.5);
+}
 body.alb-red .bub:focus-visible,
 body.alb-red .alb:focus-visible .bub{outline-color:#fff}
 
@@ -855,41 +849,74 @@ body.alb-red .sleeve{
 /* ---- la platine se met au noir pour ne pas trancher sur le rouge ---- */
 
 body.alb-red .deck-plinth{
-  background:linear-gradient(168deg,#1c0509 0%,#0d0204 46%,#050102 100%);
+  background:linear-gradient(168deg,#140406 0%,#080102 48%,#020000 100%);
   box-shadow:
-    0 30px 46px rgba(0,0,0,.5),
-    0 6px 12px rgba(0,0,0,.35),
-    inset 0 1px 0 rgba(255,255,255,.14);
+    0 30px 46px rgba(0,0,0,.58),
+    0 6px 12px rgba(0,0,0,.42),
+    inset 0 1px 0 rgba(255,255,255,.1);
 }
+/* plaque unie : sur le rouge, les rayures du metal brosse faisaient un moire
+   de traits verticaux qui accrochait l oeil plus que la platine elle meme */
 body.alb-red .deck-face{
-  background:linear-gradient(178deg,#3a3430 0%,#221e1b 34%,#2e2a26 64%,#171412 100%);
-  box-shadow:inset 0 1px 0 rgba(255,255,255,.16),inset 0 -2px 6px rgba(0,0,0,.5);
+  background:linear-gradient(178deg,#1e1a18 0%,#121010 40%,#181514 70%,#0a0908 100%);
+  box-shadow:inset 0 1px 0 rgba(255,255,255,.1),inset 0 -2px 8px rgba(0,0,0,.6);
 }
-body.alb-red .deck-face::after{
-  background:repeating-linear-gradient(90deg,rgba(255,255,255,.14) 0 1px,rgba(0,0,0,.2) 1px 3px);
-}
+body.alb-red .deck-face::after{display:none}
 body.alb-red .platter::before{
-  background:radial-gradient(circle at 38% 30%,#4a4340 0%,#2a2523 46%,#151211 100%);
-  box-shadow:0 10px 20px rgba(0,0,0,.45),inset 0 0 0 1px rgba(255,255,255,.14);
+  background:radial-gradient(circle at 38% 30%,#2b2624 0%,#171413 46%,#0a0808 100%);
+  box-shadow:0 10px 20px rgba(0,0,0,.5),inset 0 0 0 1px rgba(255,255,255,.1);
 }
+/* le bras et son axe brillaient comme du chrome neuf a cote d une platine noire */
+body.alb-red .arm-tube{background:linear-gradient(180deg,#8f8b85,#5d5a55 52%,#332f2c)}
+body.alb-red .arm-pivot{
+  background:radial-gradient(circle at 36% 30%,#9a958e,#5b5852 60%,#2e2b28 100%);
+}
+body.alb-red .spindle{background:linear-gradient(180deg,#c9c5bf,#59564f)}
 body.alb-red .deck-knob{
   background:linear-gradient(180deg,#d8262f,#8b0a14);
   box-shadow:0 2px 4px rgba(0,0,0,.6),inset 0 1px 0 rgba(255,255,255,.4);
 }
 
-/* ---- paroles : noir sur rouge, la ligne chantee passe en blanc ---- */
+/* ---- paroles : le texte est allume, comme les fleurs du fond ----
+   Les lignes a venir ne font que rougeoyer ; celle qu on chante s allume
+   pour de bon, halo blanc puis halo rouge, et une ombre sombre dessous
+   pour qu elle tienne meme sur les plages claires du collage. */
 
-body.alb-red .lyr{color:rgba(11,5,7,.4)}
-body.alb-red .lyr:hover{color:rgba(11,5,7,.72)}
-body.alb-red .lyr.is-past{color:rgba(11,5,7,.24)}
+body.alb-red .lyr{
+  color:rgba(255,255,255,.46);
+  text-shadow:0 0 12px rgba(255,255,255,.3),0 1px 2px rgba(11,5,7,.5);
+}
+body.alb-red .lyr:hover{
+  color:rgba(255,255,255,.8);
+  text-shadow:0 0 16px rgba(255,255,255,.55),0 1px 2px rgba(11,5,7,.5);
+}
+body.alb-red .lyr.is-past{
+  color:rgba(255,255,255,.3);
+  text-shadow:0 0 10px rgba(255,255,255,.2),0 1px 2px rgba(11,5,7,.45);
+}
 body.alb-red .lyr.is-now{
   color:#fff;
-  text-shadow:0 2px 0 #0b0507,0 0 20px rgba(0,0,0,.5);
+  text-shadow:
+    0 0 7px rgba(255,255,255,.95),
+    0 0 24px rgba(255,255,255,.7),
+    0 0 52px rgba(255,96,96,.6),
+    0 2px 3px rgba(11,5,7,.6);
 }
-body.alb-red .lyr-echo{color:rgba(11,5,7,.42)}
-body.alb-red .lyr.is-now .lyr-echo{color:rgba(255,255,255,.82)}
-body.alb-red .lyr-note{color:rgba(11,5,7,.6)}
-body.alb-red .lyrics.is-tuning{box-shadow:inset 0 0 0 1px rgba(11,5,7,.4)}
+body.alb-red .lyr-echo{
+  color:rgba(255,255,255,.4);
+  text-shadow:0 0 10px rgba(255,255,255,.28),0 1px 2px rgba(11,5,7,.45);
+}
+body.alb-red .lyr.is-now .lyr-echo{
+  color:rgba(255,255,255,.86);
+  text-shadow:0 0 14px rgba(255,255,255,.6),0 1px 2px rgba(11,5,7,.5);
+}
+/* la note prend le meme halo : c est un dessin, donc drop-shadow et non text-shadow */
+body.alb-red .lyr-note{
+  color:rgba(255,255,255,.78);
+  filter:drop-shadow(0 0 9px rgba(255,255,255,.65))
+         drop-shadow(0 0 26px rgba(255,110,110,.5));
+}
+body.alb-red .lyrics.is-tuning{box-shadow:inset 0 0 0 1px rgba(255,255,255,.4)}
 
 /* ---- lecture, pause, volume ---- */
 
@@ -1050,12 +1077,10 @@ body.alb-red #vol:focus-visible{outline-color:#fff}
   #vol{width:150px;height:8px}
 }
 
-/* sur telephone le collage est plus dense qu il n en faut derriere une seule
-   colonne : il reste, en retrait, et les eclats des coins s effacent */
+/* sur telephone le cadrage ne change pas : l image tient toujours en entier.
+   On la retient seulement un peu, pour que les paroles restent nettes. */
 @media (max-width: 820px){
-  body.alb-red .deco{opacity:.5}
+  body.alb-red .deco{opacity:.8}
   body.alb-red.is-stage .deco,
-  body.alb-red.is-lighten .deco{opacity:.5}
-  body.alb-red .bg::before,
-  body.alb-red .bg::after{display:none}
+  body.alb-red.is-lighten .deco{opacity:.8}
 }
